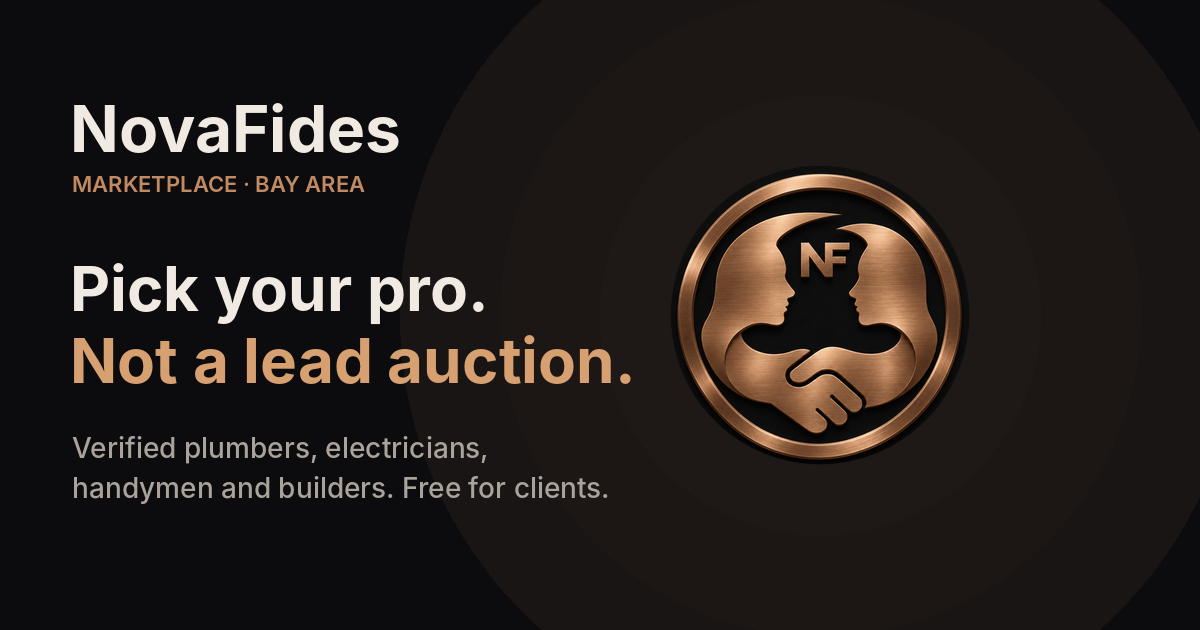
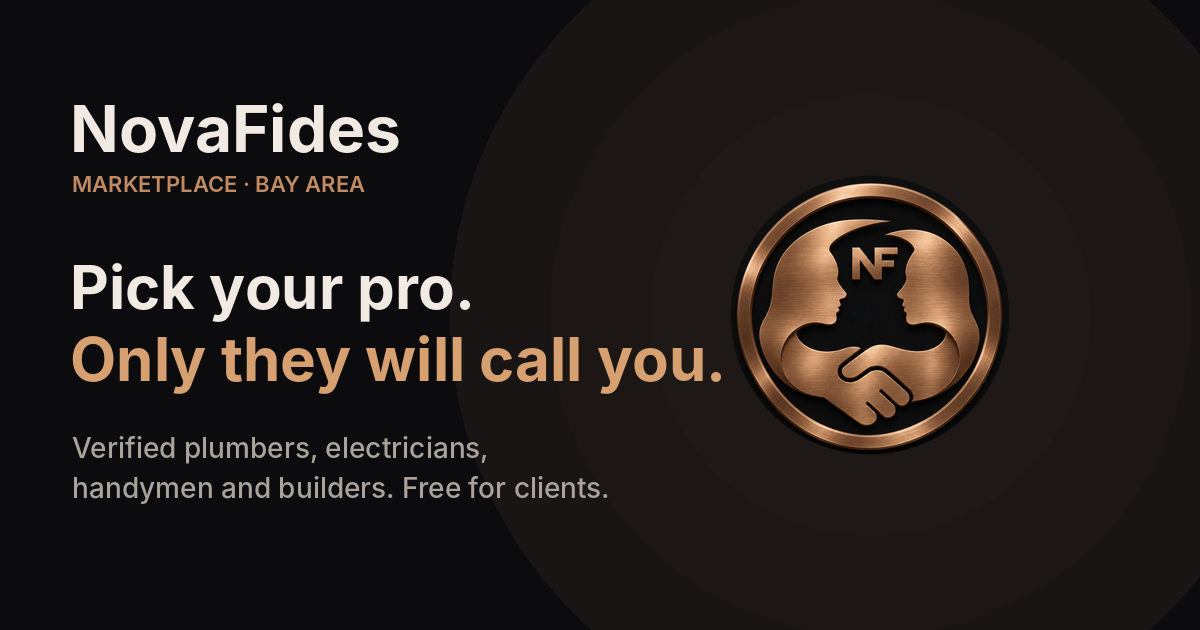
Headline for clients: Pick your pro. Only they will call you. Lead-auction line moved to the pros page; translated tab title; hide zero counts; share image
Claude-Session: https://claude.ai/code/session_01U2neuZjBgPy7grskdApKdY

Changed region(s): [[0.0617, 0.2714, 0.8325, 0.754]]

diff --git a/web/lib/i18n-dict.ts b/web/lib/i18n-dict.ts
@@ -162,7 +162,7 @@ export const ES: Record<string, string> = {
 "Paid on time": "Pagó a tiempo",
 "Permit usually required.": "Normalmente se requiere permiso.",
 "Photo": "Foto",
-"Pick your pro.": "Elija a su profesional.",
+"Pick your pro.": "Elige a tu profesional.",
 "Please enter the job address.": "Escriba la dirección del trabajo.",
 "Please pick a time.": "Elija una hora.",
 "Plumbing": "Plomería",
@@ -1407,6 +1407,10 @@ export const ES: Record<string, string> = {
 "{name} will call you back": "{name} le devolverá la llamada",
 "“Create pro profile” → email and code.": "“Crear perfil de profesional” → correo y código.",
 "“Register company” → email and code → company name, license, colors.": "“Registrar empresa” → correo y código → nombre, licencia, colores.",
+"Only they will call you.": "Solo te llamará quien elijas.",
+"Three simple steps": "Tres pasos sencillos",
+"A client’s request is never sold to five pros who then race to call first. The client picks you, and the request goes only to you.": "La solicitud de un cliente nunca se vende a cinco profesionales que compiten por llamar primero. El cliente le elige a usted y la solicitud le llega solo a usted.",
+"Find a verified plumber, electrician, handyman or builder in the Bay Area. Real photos, real work, honest reviews. You choose one pro; your request goes only to them. Free for clients.": "Encuentre un plomero, electricista, handyman o constructor verificado en el Área de la Bahía. Fotos reales, trabajos reales, reseñas honestas. Usted elige un profesional y su solicitud le llega solo a esa persona. Gratis para clientes.",
 };
 export const RU: Record<string, string> = {
 "About {name}": "О мастере: {name}",
@@ -1571,7 +1575,7 @@ export const RU: Record<string, string> = {
 "Paid on time": "Оплатил вовремя",
 "Permit usually required.": "Обычно нужно разрешение (permit).",
 "Photo": "Фото",
-"Pick your pro.": "Выберите своего мастера.",
+"Pick your pro.": "Выберите мастера.",
 "Please enter the job address.": "Укажите адрес работы.",
 "Please pick a time.": "Выберите время.",
 "Plumbing": "Сантехника",
@@ -2816,4 +2820,8 @@ export const RU: Record<string, string> = {
 "{name} will call you back": "{name} вам перезвонит",
 "“Create pro profile” → email and code.": "«Создать профиль мастера» → email и код.",
 "“Register company” → email and code → company name, license, colors.": "«Зарегистрировать компанию» → email и код → название, лицензия, цвета.",
+"Only they will call you.": "Звонить будет только он.",
+"Three simple steps": "Три простых шага",
+"A client’s request is never sold to five pros who then race to call first. The client picks you, and the request goes only to you.": "Заявку клиента не продают пятерым мастерам, которые потом наперегонки звонят первыми. Клиент выбирает вас, и заявка приходит только вам.",
+"Find a verified plumber, electrician, handyman or builder in the Bay Area. Real photos, real work, honest reviews. You choose one pro; your request goes only to them. Free for clients.": "Проверенные сантехники, электрики, хендимены и строители в Bay Area. Настоящие фото, настоящие работы, честные отзывы. Вы выбираете одного мастера, и заявка уходит только ему. Для клиентов бесплатно.",
 };

diff --git a/web/app/page.tsx b/web/app/page.tsx
@@ -46,10 +46,10 @@ export default async function Home() {
   const popular = pop.map((id) => pros.find((p) => p.id === id)).filter((p): p is (typeof pros)[number] => Boolean(p)).filter((p) => !online.some((o) => o.id === p.id)).slice(0, 4);
   return (
     <>
-      <section className="hero pad"><div className="in hero-grid">
+      <section className="hero pad"><div className={`in hero-grid${lineup.length ? '' : ' solo'}`}>
         <div>
           <div className="eyebrow">{t('Bay Area · San Francisco to San Jose')}</div>
-          <h1>{t('Pick your pro.')}<br /><span>{t('Not a lead auction.')}</span></h1>
+          <h1>{t('Pick your pro.')}<br /><span>{t('Only they will call you.')}</span></h1>
           <p>{t('Verified plumbers, electricians, handymen and builders with real photos, their own work and honest reviews. You choose one pro. Your request goes only to them.')}</p>
           <SearchBox loc={loc.text} />
           <p className="sbox-only">{t('Your request goes only to the pro you choose.')}</p>
@@ -58,7 +58,7 @@ export default async function Home() {
           {lineup.map((p, i) => (
             <Link key={p.id} href={`/${p.slug}`} className={`lu-fig lu-${i}`} style={{ ['--acc' as string]: p.accent }}>
               <img src={p.figureUrl!} alt={p.name} loading={i ? 'lazy' : 'eager'} />
-              <span className="lu-tag"><b>{first(p.name)}</b>{t(TRADES[p.trade].name)}</span>
+              <span className="lu-tag" title={t(TRADES[p.trade].name)}><b>{first(p.name)}</b></span>
             </Link>
           ))}
           <i className="lu-floor" aria-hidden />
@@ -72,9 +72,10 @@ export default async function Home() {
           <div className="urg-txt">
             <b>{t('Need a pro today?')}</b>
             <span className="urg-stats">
-              <Link href="/online?urgent=1"><b className="num">{urgentCount}</b> {t('take urgent calls now')}</Link>
-              <Link href="/search?today=1"><b className="num">{todayCount}</b> {t('have open hours today')}</Link>
-              <Link href="/online"><b className="num">{onlineCount}</b> {t('online on the site')}</Link>
+              {/* Only numbers above zero: a row of zeros tells a visitor the site is empty. */}
+              {urgentCount > 0 && <Link href="/online?urgent=1"><b className="num">{urgentCount}</b> {t('take urgent calls now')}</Link>}
+              {todayCount > 0 && <Link href="/search?today=1"><b className="num">{todayCount}</b> {t('have open hours today')}</Link>}
+              {onlineCount > 0 && <Link href="/online"><b className="num">{onlineCount}</b> {t('online on the site')}</Link>}
             </span>
             <span className="mu2 xs">{t('“Online” only means the pro is on the site now. The pro confirms if they can come. Smell gas? Leave the house first and call PG&E at 1-800-743-5000 or 911.')}</span>
           </div>
@@ -94,7 +95,7 @@ export default async function Home() {
 
 
       <section className="sec pad"><div className="in">
-        <div className="eyebrow">{t('How it works')}</div><h2>{t('Three steps, no lead auction')}</h2>
+        <div className="eyebrow">{t('How it works')}</div><h2>{t('Three simple steps')}</h2>
         <ol className="steps3">
           <li className="card"><span className="ic"><Icon name="camera" size={22} /></span><b>{t('Describe or take a photo')}</b><span className="mu sm">{t('Type it in your own words or snap the problem. We suggest the job and the typical price.')}</span></li>
           <li className="card"><span className="ic"><Icon name="shield" size={22} /></span><b>{t('Choose one pro')}</b><span className="mu sm">{t('Compare faces, checked licenses, real work photos, prices and honest reviews. Your request goes only to the pro you pick.')}</span></li>

diff --git a/web/app/layout.tsx b/web/app/layout.tsx
@@ -10,16 +10,22 @@ import { actionCount } from '@/lib/order-count';
 import { SITE } from '@/lib/seo';
 import './globals.css';
 
-export const metadata: Metadata = {
-  metadataBase: new URL(SITE),
-  title: { default: 'NovaFides Marketplace · Pick your pro in the Bay Area', template: '%s · NovaFides' },
-  description: 'Find a verified plumber, electrician, handyman or builder in the Bay Area. Real photos, real work, honest reviews. You choose one pro; your request goes only to them. Free for clients.',
-  applicationName: 'NovaFides',
-  icons: { icon: [{ url: '/emblem.png' }, { url: '/icon-192.png', sizes: '192x192' }], apple: '/apple-touch-icon.png' },
-  appleWebApp: { capable: true, title: 'NovaFides', statusBarStyle: 'black-translucent' },
-  openGraph: { type: 'website', siteName: 'NovaFides Marketplace', images: [{ url: '/og.png', width: 1200, height: 630, alt: 'NovaFides: pick your pro, not a lead auction' }] },
-  twitter: { card: 'summary_large_image', images: ['/og.png'] },
-};
+// The tab title and description follow the visitor's language.
+export async function generateMetadata(): Promise<Metadata> {
+  const t = await getT();
+  const title = `NovaFides · ${t('Pick your pro.')} ${t('Only they will call you.')}`;
+  const description = t('Find a verified plumber, electrician, handyman or builder in the Bay Area. Real photos, real work, honest reviews. You choose one pro; your request goes only to them. Free for clients.');
+  return {
+    metadataBase: new URL(SITE),
+    title: { default: title, template: '%s · NovaFides' },
+    description,
+    applicationName: 'NovaFides',
+    icons: { icon: [{ url: '/emblem.png' }, { url: '/icon-192.png', sizes: '192x192' }], apple: '/apple-touch-icon.png' },
+    appleWebApp: { capable: true, title: 'NovaFides', statusBarStyle: 'black-translucent' },
+    openGraph: { type: 'website', siteName: 'NovaFides Marketplace', title, description, images: [{ url: '/og.png', width: 1200, height: 630, alt: title }] },
+    twitter: { card: 'summary_large_image', images: ['/og.png'] },
+  };
+}
 export const viewport: Viewport = { themeColor: '#0C0C0E', width: 'device-width', initialScale: 1, viewportFit: 'cover' };
 
 export default async function RootLayout({ children }: { children: React.ReactNode }) {

diff --git a/web/app/globals.css b/web/app/globals.css
@@ -752,3 +752,13 @@ a.card:active,.card.pc:active{transform:translateY(0) scale(.985);transition-dur
 .steps-reg .card{padding:16px}
 .steps-reg ol{margin:8px 0 0;padding-left:18px;font-size:14px;line-height:1.55;color:var(--mu)}
 @media (max-width:760px){.steps-reg{grid-template-columns:1fr}}
+/* headline fits in two lines next to the line-up of pros; full width when there is no line-up */
+@media (min-width:901px){
+  .hero-grid{grid-template-columns:minmax(0,1.4fr) minmax(0,.6fr)}
+  .hero-grid h1{font-size:clamp(40px,4.1vw,56px)}
+  html[lang="es"] .hero-grid h1{font-size:clamp(38px,3.6vw,50px)}
+  .hero-grid.solo{grid-template-columns:1fr}
+  .hero-grid.solo h1{font-size:clamp(40px,5.4vw,68px)}
+  .hero-grid .lineup{height:420px}
+  .hero-grid .lu-1{left:-6%}.hero-grid .lu-0{left:24%}.hero-grid .lu-2{right:-8%}
+}

diff --git a/web/app/join/page.tsx b/web/app/join/page.tsx
@@ -9,6 +9,7 @@ export default async function Join() {
     <section className="sec pad"><div className="in">
       <div className="eyebrow">{tr("For pros & companies")}</div>
       <h2>{tr("No lead fees. Free during the launch.")}</h2>
+      <p style={{ fontSize: 18, margin: '0 0 8px' }}><b>{tr('Not a lead auction.')}</b> {tr('A client’s request is never sold to five pros who then race to call first. The client picks you, and the request goes only to you.')}</p>
       <p className="mu" style={{ maxWidth: '62ch' }}>{tr("Clients choose you directly. A request goes only to you, never to five competitors. Your reviews, job counts and skills stay with you.")}</p>
       <div className="note" style={{ margin: '14px 0 4px', maxWidth: '70ch' }}>
         <b>{tr("Free during the launch")}</b><br />

diff --git a/web/app/manifest.ts b/web/app/manifest.ts
@@ -3,7 +3,7 @@ import type { MetadataRoute } from 'next';
 // Lets people add NovaFides to their phone's home screen like an app.
 export default function manifest(): MetadataRoute.Manifest {
   return {
-    name: 'NovaFides Marketplace', short_name: 'NovaFides', description: 'Pick your pro. Not a lead auction. Verified home pros in the Bay Area.',
+    name: 'NovaFides Marketplace', short_name: 'NovaFides', description: 'Pick your pro. Only they will call you. Verified home pros in the Bay Area.',
     start_url: '/', scope: '/', display: 'standalone', background_color: '#0C0C0E', theme_color: '#0C0C0E', orientation: 'portrait',
     icons: [
       { src: '/icon-192.png', sizes: '192x192', type: 'image/png' },
